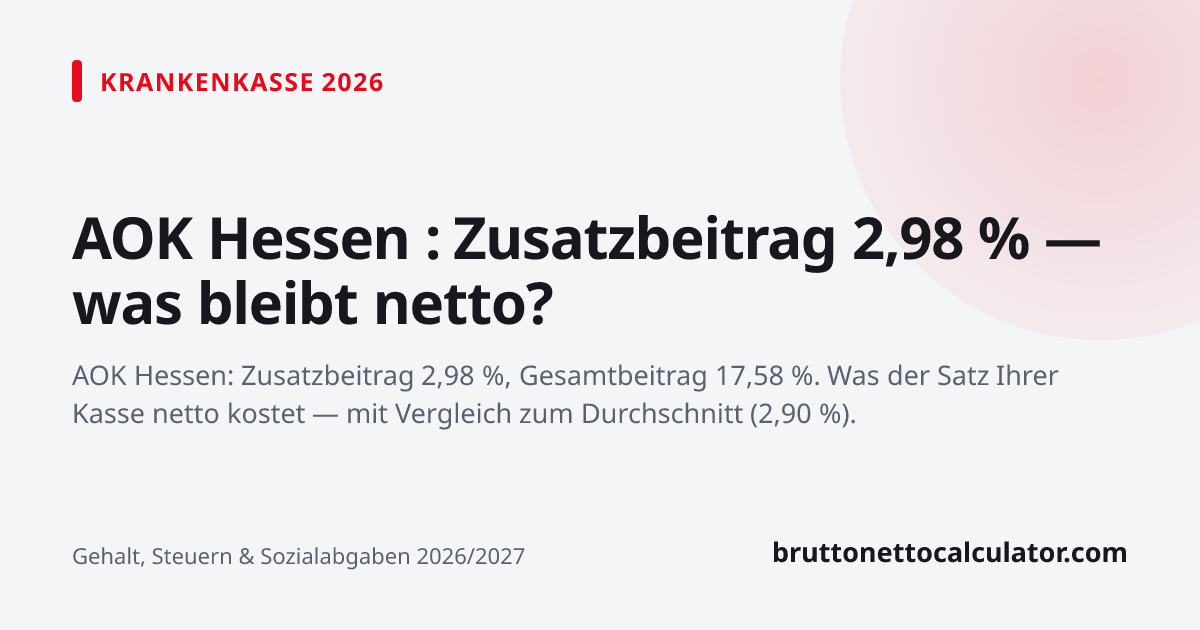
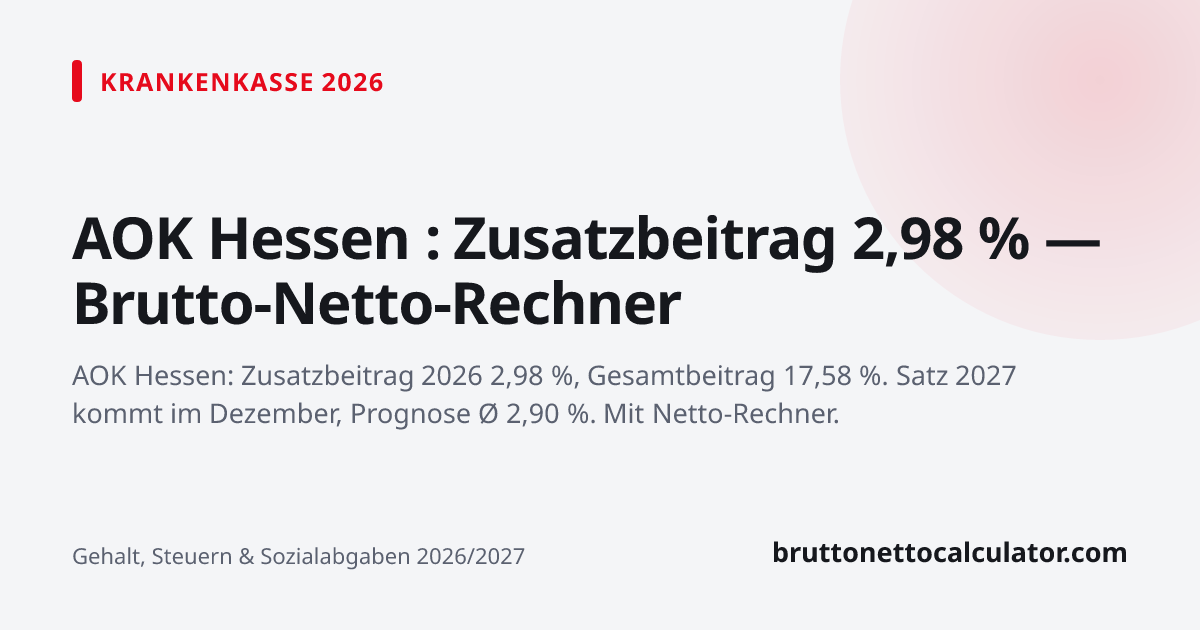
seo: Trends + GSC striking-distance build (26.10.2026)
Data: Google Trends DE (30 days), GSC queries DE at pos 7-40, and a fresh
Google Autocomplete harvest (15.857 queries).

- Titles/H1 where the query word was missing: "Höhere Sozialabgaben 2027"
  (1.342 impr, pos 9,2), "Brutto-Netto-Rentenrechner" (821, pos 9,0),
  "Steuerklassenrechner" (Trends breakout), "AVD" (+190 %). Kasse pages
  carry "Brutto-Netto-Rechner" in the H1 ("tk brutto netto rechner" 253,
  pos 7,7).
- /brutto-netto-gehaltstabelle: full engine-computed table, 1.000-10.000 €
  in 100-€ steps, Steuerklasse I-VI ("brutto netto tabelle" 545, pos 9,4).
- Weihnachtsgeld FAQs: Elternzeit (+3.000 %) and Beamte (breakout).
- 4 trending Kassen: Salus BKK 3,29 %, pronova BKK 3,7 %, SBK 3,8 %,
  IKK Südwest 3,87 % (krankenkasseninfo.de and krankenkassen.de agree).
- Page images regenerated for every changed heading.

Changed region(s): [[0.0617, 0.573, 0.8942, 0.6937], [0.0617, 0.4222, 0.5858, 0.5127]]

diff --git a/app/brutto-netto-gehaltstabelle/page.tsx b/app/brutto-netto-gehaltstabelle/page.tsx
@@ -75,6 +75,22 @@ function netto(brutto: number, jahr: 2026 | 2027, steuerklasse: 1 | 3): number {
   }).nettoMonat;
 }
 
+/** Zeilen der kompletten Tabelle: 1.000–10.000 € in 100-€-Schritten. */
+const TABELLE_KOMPLETT: number[] = Array.from({ length: 91 }, (_, i) => 1000 + i * 100);
+const STEUERKLASSEN = [1, 2, 3, 4, 5, 6] as const;
+const SK_ROMAN = { 1: "I", 2: "II", 3: "III", 4: "IV", 5: "V", 6: "VI" } as const;
+
+function nettoSk(brutto: number, steuerklasse: (typeof STEUERKLASSEN)[number]): number {
+  return calculateNetto({
+    bruttoMonat: brutto,
+    jahr: 2026,
+    verheiratet: steuerklasse === 3 || steuerklasse === 4 || steuerklasse === 5,
+    kinderlosUeber23: true,
+    kirche: false,
+    steuerklasse,
+  }).nettoMonat;
+}
+
 /** Zeilen der kompakten Tabelle: 1.500–10.000 € in 500-€-Schritten. */
 const TABELLE: number[] = Array.from({ length: 18 }, (_, i) => 1500 + i * 500);
 
@@ -255,6 +271,52 @@ export default function SalaryHubPage() {
           );
         })}
       </div>
+
+      {/* Full grid — since the 2026-10-26 prune most amounts no longer have an
+          indexable detail page, so the values live here in one table instead. */}
+      <section aria-labelledby="tabelle-komplett" className="mt-14">
+        <h2 id="tabelle-komplett" className="font-display text-2xl sm:text-3xl font-extrabold tracking-tight text-[#16181D] mb-2">
+          Komplette Brutto-Netto-Tabelle 2026: Steuerklasse I bis VI
+        </h2>
+        <p className="text-sm sm:text-base text-black/70 mb-6 leading-relaxed">
+          Monatsnetto von 1.000 € bis 10.000 € brutto in 100-€-Schritten, Steuerjahr 2026. Ohne Kirchensteuer,
+          kinderlos ab 23, durchschnittlicher Zusatzbeitrag; Steuerklasse III, IV und V als verheiratet gerechnet.
+        </p>
+        <div className="bg-[#FFFFFF] border border-black/[0.10] rounded-3xl shadow-xl overflow-auto max-h-[70vh]">
+          <table className="w-full text-left border-collapse min-w-[720px]">
+            <thead className="sticky top-0 z-10">
+              <tr className="bg-[#F1F3F5] border-b border-black/[0.10] text-xs font-mono uppercase tracking-wider text-black/70">
+                <th scope="col" className="py-3 px-4">Brutto</th>
+                {STEUERKLASSEN.map((sk) => (
+                  <th key={sk} scope="col" className={`py-3 px-3 text-right ${sk === 1 ? "text-[#16181D] font-bold" : ""}`}>
+                    SK {SK_ROMAN[sk]}
+                  </th>
+                ))}
+              </tr>
+            </thead>
+            <tbody className="divide-y divide-black/10 text-sm">
+              {TABELLE_KOMPLETT.map((b) => (
+                <tr key={b} className="hover:bg-black/[0.03]">
+                  <th scope="row" className="py-2 px-4 font-semibold text-left whitespace-nowrap">
+                    {grossAmountHref(b) ? (
+                      <Link href={grossAmountHref(b)!} className="text-[#16181D] hover:text-[#E60A1C] hover:underline underline-offset-2">
+                        {new Intl.NumberFormat("de-DE").format(b)} €
+                      </Link>
+                    ) : (
+                      <>{new Intl.NumberFormat("de-DE").format(b)} €</>
+                    )}
+                  </th>
+                  {STEUERKLASSEN.map((sk) => (
+                    <td key={sk} className={`py-2 px-3 text-right font-mono ${sk === 1 ? "font-bold" : "text-black/75"}`}>
+                      {formatEUR(nettoSk(b, sk))}
+                    </td>
+                  ))}
+                </tr>
+              ))}
+            </tbody>
+          </table>
+        </div>
+      </section>
 
       {/* Footnote */}
       <p className="text-xs text-black/50 mt-12 leading-relaxed max-w-3xl">

diff --git a/app/weihnachtsgeld-rechner/page.tsx b/app/weihnachtsgeld-rechner/page.tsx
@@ -88,6 +88,16 @@ const faqs: WeihnachtsgeldFaq[] = [
     q: "Bekomme ich Weihnachtsgeld, wenn ich Krankengeld beziehe?",
     a: "Das hängt von der Regelung ab, die Ihr Weihnachtsgeld begründet. Ohne Kürzungsklausel bleibt der Anspruch auch bei langer Krankheit bestehen. Ist eine Kürzung vereinbart, darf der Arbeitgeber höchstens ein Viertel des Tagesverdienstes je Krankheitstag abziehen (§ 4a EntgFG). Im TVöD sinkt die Jahressonderzahlung um ein Zwölftel für jeden Monat ohne Entgelt; Monate, in denen Ihnen Krankengeldzuschuss zusteht, zählen dabei nicht als Kürzungsmonate (§ 20 Abs. 4 TVöD).",
   },
+  // Google Trends DE (30 Tage bis 26.10.2026): "bekommt man weihnachtsgeld wenn man in
+  // elternzeit ist" +3.000 %, "kriegen beamte weihnachtsgeld" Breakout.
+  {
+    q: "Bekommt man Weihnachtsgeld in der Elternzeit?",
+    a: "Das regelt der Vertrag, der das Weihnachtsgeld begründet. Belohnt es die Betriebstreue, besteht der Anspruch meist auch in der Elternzeit. Ist es an die tatsächliche Arbeitsleistung geknüpft, darf es für Monate ohne Arbeit gekürzt werden, weil das Arbeitsverhältnis in der Elternzeit ruht. Im TVöD sinkt die Jahressonderzahlung zwar um ein Zwölftel je Monat ohne Entgelt, Elternzeit bis zum Ende des Kalenderjahres der Geburt zählt aber nicht als Kürzungsmonat, wenn vor Beginn der Elternzeit Entgeltanspruch bestand (§ 20 Abs. 4 TVöD).",
+  },
+  {
+    q: "Bekommen Beamte Weihnachtsgeld?",
+    a: "Das hängt vom Dienstherrn ab. Beim Bund ist die frühere Sonderzahlung in die monatlichen Bezüge eingerechnet, ein separates Weihnachtsgeld gibt es dort nicht. Die Länder regeln das in ihrem eigenen Besoldungsrecht unterschiedlich: Einige zahlen noch eine jährliche Sonderzahlung, andere haben sie ebenfalls in die Monatsbezüge integriert. Beamte zahlen auf eine Sonderzahlung keine Sozialabgaben, nur Lohnsteuer und gegebenenfalls Soli und Kirchensteuer.",
+  },
   {
     q: "Fallen auf Weihnachtsgeld Sozialabgaben an?",
     a: `Ja, soweit Ihr Entgelt im Jahr bis zum Auszahlungsmonat die anteilige Beitragsbemessungsgrenze noch nicht erreicht hat. Bei 7.000 € Monatsbrutto ist die Grenze für Kranken- und Pflegeversicherung im November schon ausgeschöpft: Auf ${formatEUR(BEISPIEL_WG)} Weihnachtsgeld fallen dann nur noch ${formatEUR(hoch.svSumme)} Renten- und Arbeitslosenbeiträge an.`,

diff --git a/data/krankenkassen.ts b/data/krankenkassen.ts
@@ -15,7 +15,9 @@
  * danebenliegen.
  *
  * DATENSTAND: 3. August 2026, erneut geprüft am 1. Oktober 2026 — alle 19 Sätze
- * unverändert. Quellen: öffentliche Satzungsangaben der Kassen, gegengeprüft
+ * unverändert. Am 26. Oktober 2026 vier Kassen ergänzt, die in Google Trends
+ * steigen (Salus BKK 3,29 %, pronova BKK 3,7 %, SBK 3,8 %, IKK Südwest 3,87 % seit
+ * 1.4.2026) — übereinstimmend bei krankenkasseninfo.de und krankenkassen.de. Quellen: öffentliche Satzungsangaben der Kassen, gegengeprüft
  * über zwei unabhängige Vergleichsübersichten (krankenkasseninfo.de mit
  * unterjährigen Änderungen bis 1.10.2026, covago.de). Unterjährige Erhöhungen
  * 2026 gab es nur bei Kassen außerhalb dieser Auswahl (u. a. IKK classic
@@ -106,9 +108,13 @@ export const KRANKENKASSEN_2026: Krankenkasse[] = [
   { slug: "aok-plus", name: "AOK PLUS", zusatzbeitrag: 3.1, art: "AOK", bundesweit: false, region: "Sachsen, Thüringen" },
   { slug: "dak", name: "DAK-Gesundheit", zusatzbeitrag: 3.2, art: "Ersatzkasse", bundesweit: true },
   { slug: "barmer", name: "BARMER", zusatzbeitrag: 3.29, art: "Ersatzkasse", bundesweit: true },
+  { slug: "salus-bkk", name: "Salus BKK", zusatzbeitrag: 3.29, art: "BKK", bundesweit: true },
   { slug: "aok-nordost", name: "AOK Nordost", zusatzbeitrag: 3.5, art: "AOK", bundesweit: false, region: "Berlin, Brandenburg, Mecklenburg-Vorpommern" },
   { slug: "big-direkt", name: "BIG direkt gesund", zusatzbeitrag: 3.69, art: "IKK", bundesweit: true },
+  { slug: "pronova-bkk", name: "pronova BKK", zusatzbeitrag: 3.7, art: "BKK", bundesweit: true },
   { slug: "kkh", name: "KKH Kaufmännische Krankenkasse", zusatzbeitrag: 3.78, art: "Ersatzkasse", bundesweit: true },
+  { slug: "sbk", name: "SBK Siemens-Betriebskrankenkasse", zusatzbeitrag: 3.8, art: "BKK", bundesweit: true },
+  { slug: "ikk-suedwest", name: "IKK Südwest", zusatzbeitrag: 3.87, art: "IKK", bundesweit: false, region: "Hessen, Rheinland-Pfalz, Saarland" },
   { slug: "knappschaft", name: "KNAPPSCHAFT", zusatzbeitrag: 4.3, art: "Knappschaft", bundesweit: true },
   { slug: "bkk24", name: "BKK24", zusatzbeitrag: 4.39, art: "BKK", bundesweit: true },
 ];

diff --git a/app/sozialabgaben-rechner-2027/page.tsx b/app/sozialabgaben-rechner-2027/page.tsx
@@ -27,7 +27,10 @@ const STAND = pageStand("/sozialabgaben-rechner-2027");
 
 // „sozialabgaben rechner 2027“ (Pos. 2–2,7) bleibt im Titel vorn; dazu
 // „beitragsbemessungsgrenze 2027 rechner“ (Pos. 3,4).
-const TITLE = "Sozialabgaben 2027 Rechner – Beitragsbemessungsgrenze 2027";
+// GSC (DE, 28 Tage bis 24.10.2026): "höhere sozialabgaben 2027" 1.342 Impressionen auf
+// Pos. 9,2, "höhere sozialabgaben für gutverdiener rechner" Pos. 7,8. Die BBG hat eine
+// eigene Seite (/beitragsbemessungsgrenze-2027), der Titel überlässt ihr das Wort.
+const TITLE = "Höhere Sozialabgaben 2027: Rechner für Gutverdiener";
 const DESCRIPTION = `Sozialabgaben 2027 berechnen: Beitragsbemessungsgrenzen laut Kabinett (KV ${E.kvPvBbgMonat.toLocaleString("de-DE")} €, RV ${E.rvAlvBbgMonat.toLocaleString("de-DE")} €), Zusatzbeitrag 2,9 %, Pflege 0,9 % für Kinderlose.`;
 
 /*
@@ -242,7 +245,7 @@ export default function SozialabgabenRechner2027Page() {
             Grenzen 2027: {BBG_2027_STATUS.kurz}
           </div>
           <h1 className="font-display font-extrabold text-3xl sm:text-5xl tracking-tight leading-tight mb-4 max-w-4xl">
-            Sozialabgaben 2027: <span className="text-gradient-accent">Rechner mit neuen Beitragsbemessungsgrenzen</span>
+            Höhere Sozialabgaben 2027: <span className="text-gradient-accent">Rechner mit neuen Beitragsbemessungsgrenzen</span>
           </h1>
           <p className="text-base sm:text-lg text-black/75 max-w-3xl leading-relaxed">
             Höhere Beitragsbemessungsgrenzen (vom Kabinett am 7. Oktober beschlossen), ein höherer

diff --git a/app/rente-brutto-netto-rechner/page.tsx b/app/rente-brutto-netto-rechner/page.tsx
@@ -18,7 +18,9 @@ const BASE = "https://bruttonettocalculator.com";
 const CANONICAL = `${BASE}/rente-brutto-netto-rechner`;
 const eur0 = (n: number) => n.toLocaleString("de-DE", { maximumFractionDigits: 0 });
 
-const PAGE_TITLE = "Rente Brutto Netto Rechner 2026/2027 – Nettorente";
+// GSC (DE, 28 Tage bis 24.10.2026): "brutto-netto-rentenrechner 2027" 821 Impressionen
+// auf Pos. 9,0 — das Wort "Rentenrechner" fehlte im Titel.
+const PAGE_TITLE = "Brutto-Netto-Rentenrechner 2027/2026: Nettorente berechnen";
 const PAGE_DESCRIPTION =
   "Nettorente 2026 und 2027 berechnen: Kranken- und Pflegeversicherung der Rentner, Besteuerungsanteil (2027: 84,5 %) und Steuer nach dem Gesetzentwurf.";
 
@@ -128,7 +130,7 @@ export default function RenteBruttoNettoPage() {
           <PiggyBank size={14} aria-hidden="true" /> Nettorente · 2026 und 2027
         </p>
         <h1 className="font-display text-3xl sm:text-5xl font-extrabold text-[#16181D] mb-3 sm:mb-4 tracking-tight">
-          Rente Brutto Netto Rechner <span className="text-gradient-accent">2026/2027</span>
+          Brutto-Netto-Rentenrechner <span className="text-gradient-accent">2026/2027</span>
         </h1>
         <p className="text-base sm:text-xl text-black/80 max-w-4xl leading-relaxed">
           Was von der Bruttorente übrig bleibt: Kranken- und Pflegeversicherung der Rentner, Besteuerungsanteil

diff --git a/app/krankenkasse/[slug]/page.tsx b/app/krankenkasse/[slug]/page.tsx
@@ -75,6 +75,7 @@ const KURZNAME: Record<string, string> = {
   kkh: "KKH",
   dak: "DAK",
   "big-direkt": "BIG direkt",
+  sbk: "SBK",
 };
 
 export async function generateMetadata({ params }: { params: { slug: string } }): Promise<Metadata> {
@@ -291,7 +292,7 @@ export default function KrankenkassenDetailSeite({ params }: { params: { slug: s
             Krankenkasse 2026
           </div>
           <h1 className="text-3xl sm:text-4xl font-extrabold text-[#16181D] leading-tight mb-3">
-            {kasse.name}: Zusatzbeitrag {fmtPct(kasse.zusatzbeitrag)} — was bleibt netto?
+            {kasse.name}: Zusatzbeitrag {fmtPct(kasse.zusatzbeitrag)} — Brutto-Netto-Rechner
           </h1>
           <p className="text-base sm:text-lg text-black/70 leading-relaxed max-w-3xl">
             Die {kasse.name} erhebt 2026 einen Zusatzbeitrag von{" "}

diff --git a/app/steuerklassenwechsel-rechner/page.tsx b/app/steuerklassenwechsel-rechner/page.tsx
@@ -11,7 +11,8 @@ import { vergleichePaar } from "@/lib/steuerklassenPaar";
 import { formatEUR } from "@/lib/taxCalculator";
 
 const URL = "https://bruttonettocalculator.com/steuerklassenwechsel-rechner";
-const TITLE = "Steuerklassen-Rechner 2026: III/V, IV/IV oder Faktor?";
+// Google Trends DE (30 Tage bis 26.10.2026): "steuerklassenrechner" als Breakout — in einem Wort.
+const TITLE = "Steuerklassenrechner 2026: III/V, IV/IV oder Faktor?";
 const DESCRIPTION =
   "Steuerklassen Rechner für Ehepaare: Netto bei III/V, IV/IV und IV mit Faktor vergleichen und die günstigste Kombination finden.";
 const STAND = "5. Oktober 2026";

diff --git a/app/altersvorsorgedepot-rechner/page.tsx b/app/altersvorsorgedepot-rechner/page.tsx
@@ -9,7 +9,8 @@ import { pageImageUrl } from "@/lib/pageImage";
 
 const PATH = "/altersvorsorgedepot-rechner";
 const URL = `https://bruttonettocalculator.com${PATH}`;
-const TITLE = "Altersvorsorgedepot Rechner 2027: Zulagen & Steuervorteil";
+// Google Trends DE (30 Tage bis 26.10.2026): "avd rechner" +190 %, "altersvorsorgedepot rechner" +120 %.
+const TITLE = "Altersvorsorgedepot-Rechner 2027 (AVD): Zulagen & Steuer";
 const DESCRIPTION =
   "Altersvorsorgedepot ab 2027 berechnen: Grundzulage bis 540 €, Kinderzulage 300 €, Steuervorteil per Günstigerprüfung und Depotwert — nach BGBl. 2026 I Nr. 156.";
 
